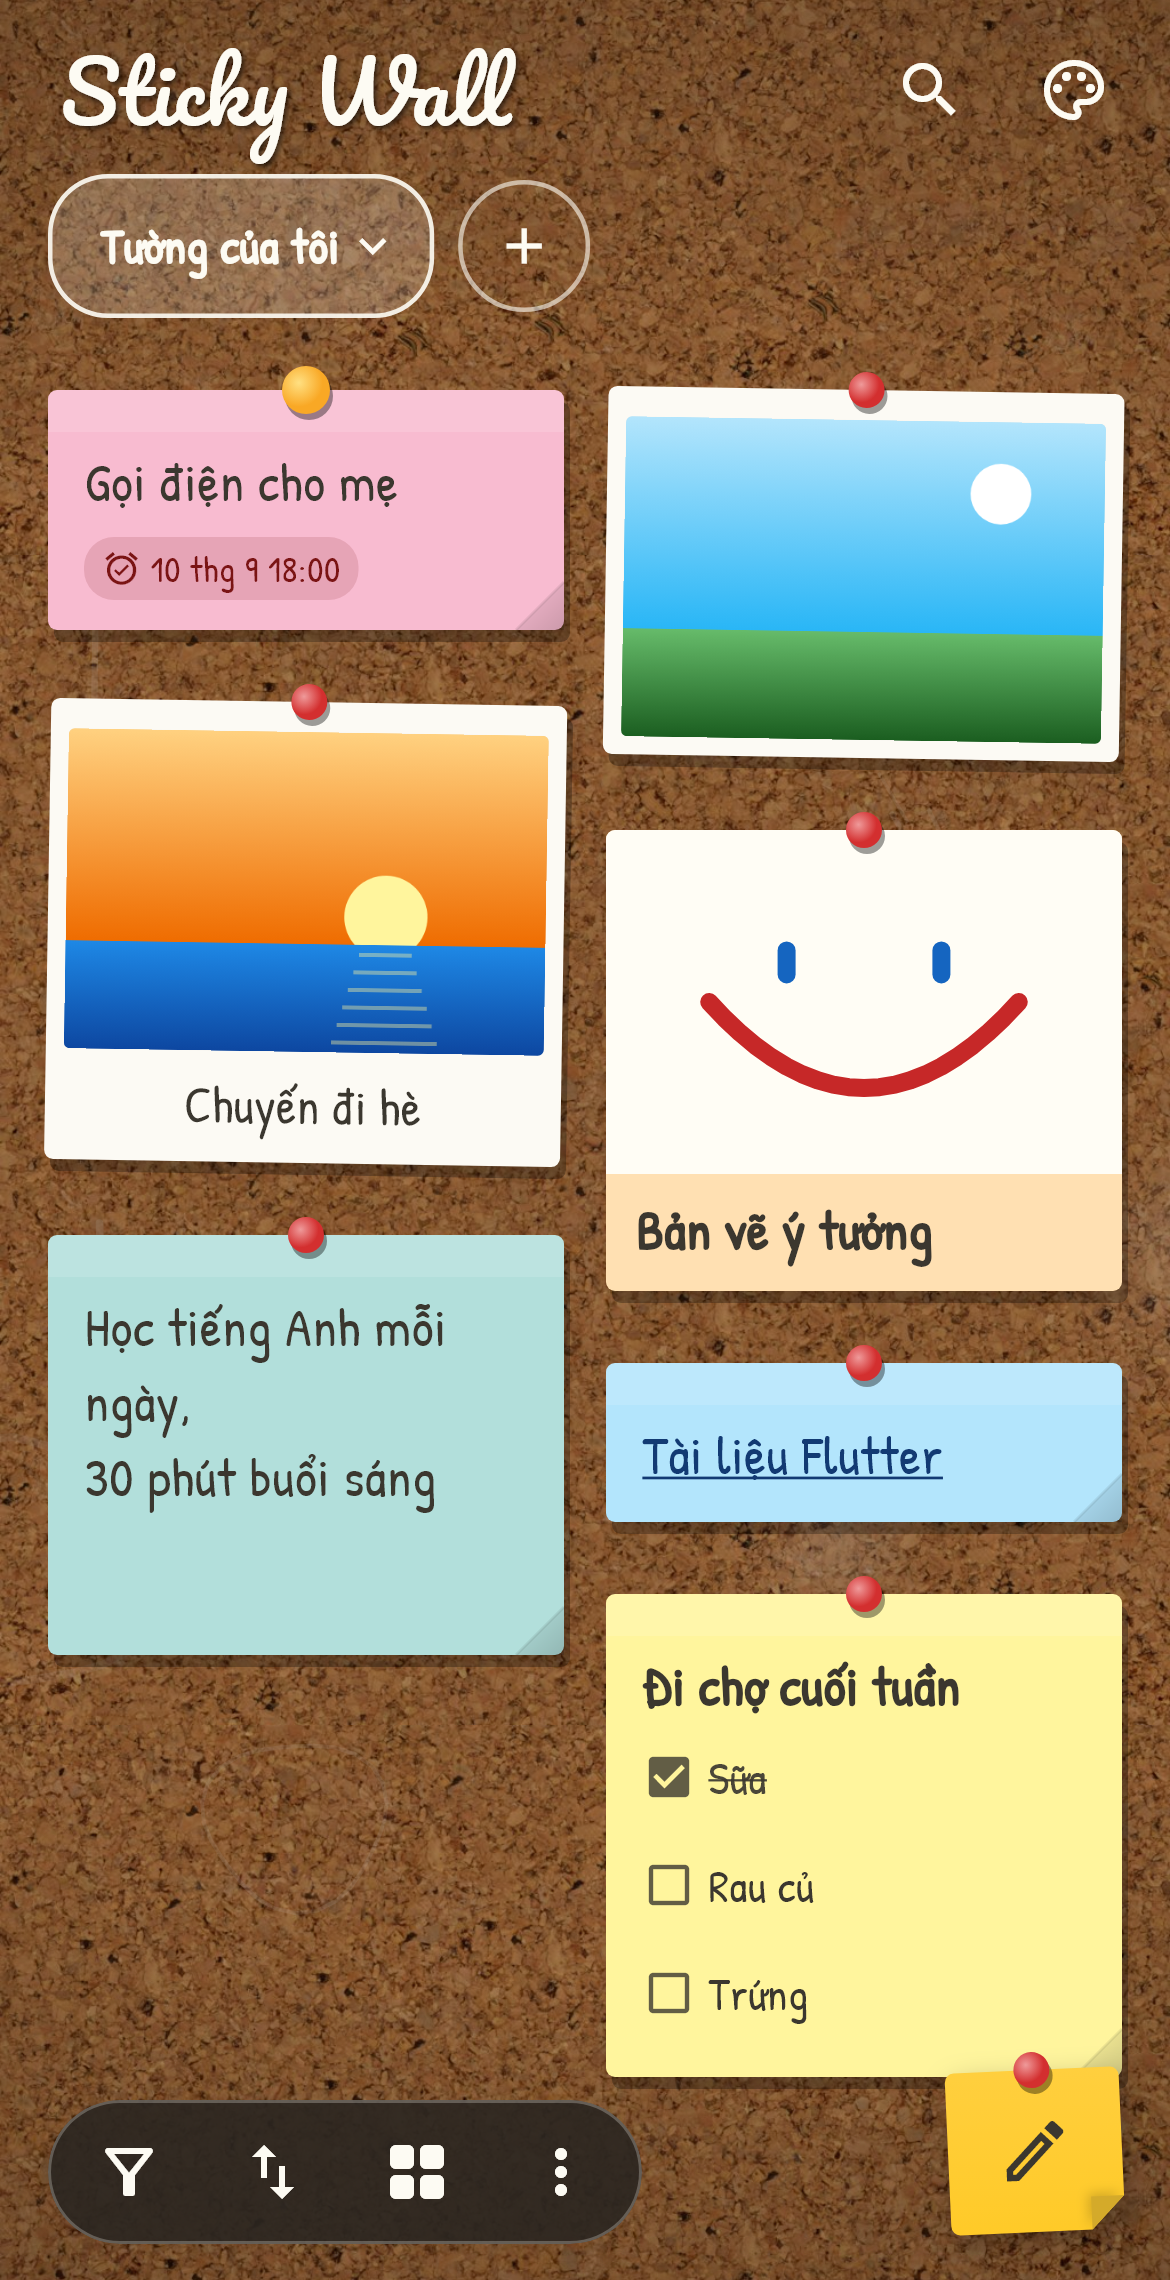
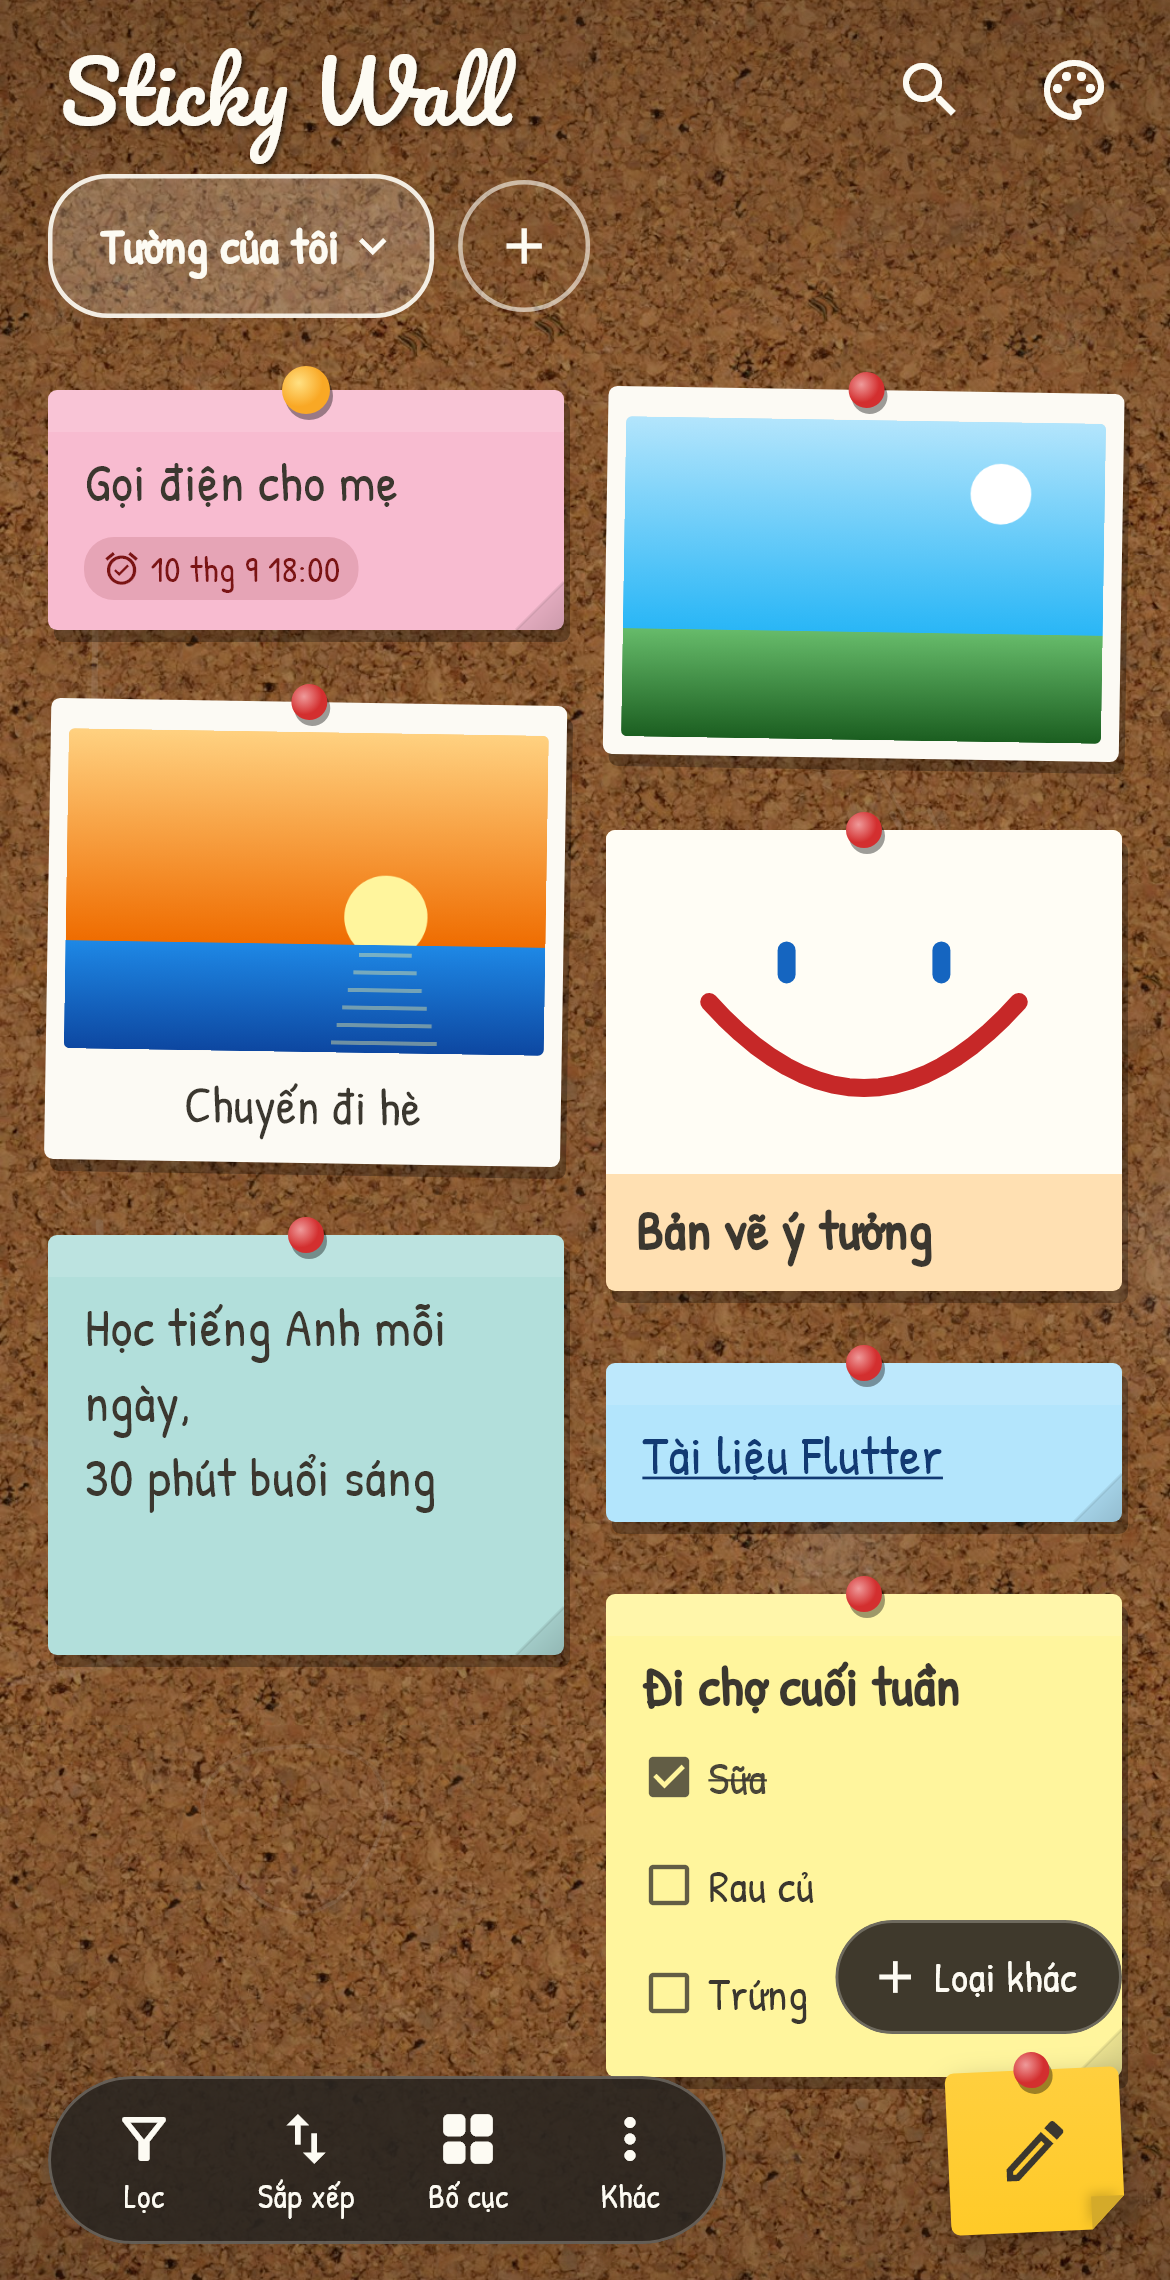
Short 'Layout' name under the layout tool; screenshots with the named tools

Changed region(s): [[0.0308, 0.9031, 0.6154, 0.9965], [0.7077, 0.8408, 0.9538, 0.9031], [0.0615, 0.9654, 0.0923, 0.9965]]

diff --git a/lib/screens/home_screen_chrome.dart b/lib/screens/home_screen_chrome.dart
@@ -694,7 +694,8 @@ extension _Chrome on _HomeScreenState {
           _HomeScreenState._layoutIcon(_notes.viewMode),
           color: wall.wallText,
         ),
-        _layoutLabel(_notes.viewMode),
+        // A short fixed name: "Freeform wall" and the like did not fit.
+        _l10n.toolLayout,
         wall.wallText,
       ),
       onSelected: (m) => _notes.viewMode = m,

diff --git a/lib/l10n/app_localizations.dart b/lib/l10n/app_localizations.dart
@@ -1802,6 +1802,12 @@ abstract class AppLocalizations {
   /// **'Sort'**
   String get toolSort;
 
+  /// No description provided for @toolLayout.
+  ///
+  /// In en, this message translates to:
+  /// **'Layout'**
+  String get toolLayout;
+
   /// No description provided for @toolMore.
   ///
   /// In en, this message translates to:

diff --git a/lib/l10n/app_localizations_vi.dart b/lib/l10n/app_localizations_vi.dart
@@ -959,6 +959,9 @@ class AppLocalizationsVi extends AppLocalizations {
   String get toolSort => 'Sắp xếp';
 
   @override
+  String get toolLayout => 'Bố cục';
+
+  @override
   String get toolMore => 'Khác';
 
   @override

diff --git a/lib/l10n/app_localizations_en.dart b/lib/l10n/app_localizations_en.dart
@@ -968,6 +968,9 @@ class AppLocalizationsEn extends AppLocalizations {
   String get toolSort => 'Sort';
 
   @override
+  String get toolLayout => 'Layout';
+
+  @override
   String get toolMore => 'More';
 
   @override
